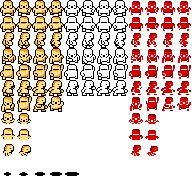
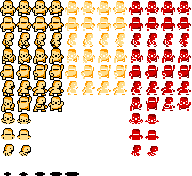
Sword poking

Changed region(s): [[0.3125, 0.0, 0.6875, 0.5682]]

diff --git a/src/game/player.ts b/src/game/player.ts
@@ -8,7 +8,8 @@
  // Attack type
 enum AtkType {
     Sword = 0,
-    Bow = 1
+    Bow = 1,
+    SpcSword = 2,
 };
 
 
@@ -67,6 +68,8 @@ class Player extends GameObject {
 
     // Hitbox
     private hbox : Hitbox;
+    // Special hitbox
+    private spcHbox : Hitbox;
 
 
     // Constructor
@@ -79,8 +82,9 @@ class Player extends GameObject {
         this.sprSword = new Sprite(24, 24);
         this.sprBow = new Sprite(16, 16);
 
-        // Create hitbox
+        // Create hitboxes
         this.hbox = new Hitbox();
+        this.spcHbox = new Hitbox();
 
         // Dimensions
         this.dim = new Vec2(8, 10);
@@ -290,6 +294,7 @@ class Player extends GameObject {
         const SPIN_CHANGE = 3;
         const BOW_TIME = 30;
         const SWIM_SPEED = 10;
+        const SPC_TIME = 20;
 
         // Update "spin loading"
         if(this.loadingSpin) {
@@ -347,6 +352,17 @@ class Player extends GameObject {
                     this.attacking = false;
                 }
             }
+            // Special sword
+            else if(this.atk == AtkType.SpcSword) {
+
+                this.spr.animate(3+this.dir,3, 4, SPC_TIME, tm);
+                if(this.spr.getFrame() == 4) {
+
+                    this.spr.setFrame(this.dir, 0);
+                    this.attacking = false;
+                }
+                this.sprSword.setFrame(this.dir, 4);
+            }
             // Sword
             else {
 
@@ -364,8 +380,11 @@ class Player extends GameObject {
                     this.spr.setFrame(this.dir, 0);
                     this.attacking = false;
 
+                    // Set spinning attack loading
                     this.spinLoad = 0.0;
                     this.loadingSpin = true;
+                    // Update special hitbox
+                    this.spcHbox.updateID();
                 }
 
             }
@@ -469,6 +488,64 @@ class Player extends GameObject {
     }
 
 
+    // Update special hitbox
+    private updateSpcHitbox() {
+
+        const WIDTH = 16;
+        const HEIGHT = 9;
+        const SPC_DMG = 2;
+
+        let x = this.pos.x;
+        let y = this.pos.y;
+
+        let w = 0;
+        let h = 0;
+
+        switch(this.dir) {
+
+        // Down
+        case 0:
+            x += -8;
+            y += 8;
+            w = HEIGHT;
+            h = WIDTH;
+            break;
+
+        // Up
+        case 1:
+            x += 8;
+            y -= 8 + WIDTH;
+            w = HEIGHT;
+            h = WIDTH;
+            break;
+
+        // Side
+        case 2:
+
+            w = WIDTH;
+            h = HEIGHT;
+            y -= 1;
+
+            if(this.flip == Flip.Horizontal) {
+
+                x -= 8 + WIDTH;
+            }   
+            else {
+
+                x += 8;
+            }
+
+            break;
+
+        default:
+            break;
+        }
+
+        // Set hitbox
+        this.spcHbox.setHitbox(x, y, w, h, SPC_DMG);
+    }
+
+
     // Update hitbox
     private updateHitbox() {
 
@@ -479,6 +556,14 @@ class Player extends GameObject {
         const SWORD_HEIGHT = 12;
         const SWORD_MARGIN = 4;
 
+        this.spcHbox.toggleExistence(this.loadingSpin);
+        // Update special hitbox, if loading a spin attack
+        if(this.loadingSpin) {
+
+            this.updateSpcHitbox();
+        }
+
+        // If not attacking, stop here
         if(!this.attacking && this.spinTimer <= 0.0) {
 
             this.hbox.terminate();
@@ -794,7 +879,7 @@ class Player extends GameObject {
             || this.spinTimer > 0.0) {
 
             // Sword
-            if(this.atk == AtkType.Sword)
+            if(this.atk == AtkType.Sword || this.atk == AtkType.SpcSword)
                 this.drawSword(g, ass);
 
             // Bow
@@ -835,5 +920,23 @@ class Player extends GameObject {
     public getHitbox() : Hitbox {
 
         return this.hbox;
+    }
+
+
+    // Get special hitbox
+    public getSpcHitbox() : Hitbox {
+
+        return this.spcHbox;
+    }
+
+
+    // Disable spin attack
+    public disableSpinAttack() {
+
+        this.spcHbox.toggleExistence(false);
+        this.loadingSpin = false;
+
+        this.atk = AtkType.SpcSword;
+        this.attacking = true;
     }
 }

diff --git a/src/game/enemies/enemy.ts b/src/game/enemies/enemy.ts
@@ -181,6 +181,14 @@ class Enemy extends GameObject {
 
         // Check hitbox, take damage
         let hbox = pl.getHitbox();
+        // If not active, check special hitbox
+        let isSpc = false;
+        if(!hbox.doesExist()) {
+
+            hbox = pl.getSpcHitbox();
+            isSpc = true;
+        }
+
         if(hbox.doesExist() && hbox.getID() > this.hurtID) {
 
             if(hbox.doesOverlay(this.pos.x-this.dhbox.x/2, 
@@ -209,6 +217,11 @@ class Enemy extends GameObject {
                     this.dying = true;
                     this.spr.setFrame(0, 0);
                 }
+
+                // If special, disable player spin attack
+                // loading
+                if(isSpc)
+                    pl.disableSpinAttack();
             }
         }
 

diff --git a/src/game/hitbox.ts b/src/game/hitbox.ts
@@ -65,6 +65,13 @@ class Hitbox {
     }
 
 
+    // Toggle existence
+    public toggleExistence(state : boolean) {
+
+        this.exist = state;
+    }
+
+
     // Get ID
     public getID() : number {
 
@@ -88,11 +95,28 @@ class Hitbox {
 
 
     // Set hitbox
-    public setHitbox(x : number, y : number, w : number, h : number) {
+    public setHitbox(x : number, y : number, w : number, h : number, dmg = 1) {
 
         this.x = x;
         this.y = y;
         this.w = w;
         this.h = h;
+
+        this.dmg = dmg;
+    }
+
+
+    // Set new ID
+    public updateID(id = -1) {
+
+        if(id < 0) {
+
+            ++ _hitID;
+            this.id = _hitID; 
+        }
+        else {
+
+            this.id = id;
+        }
     }
 }
